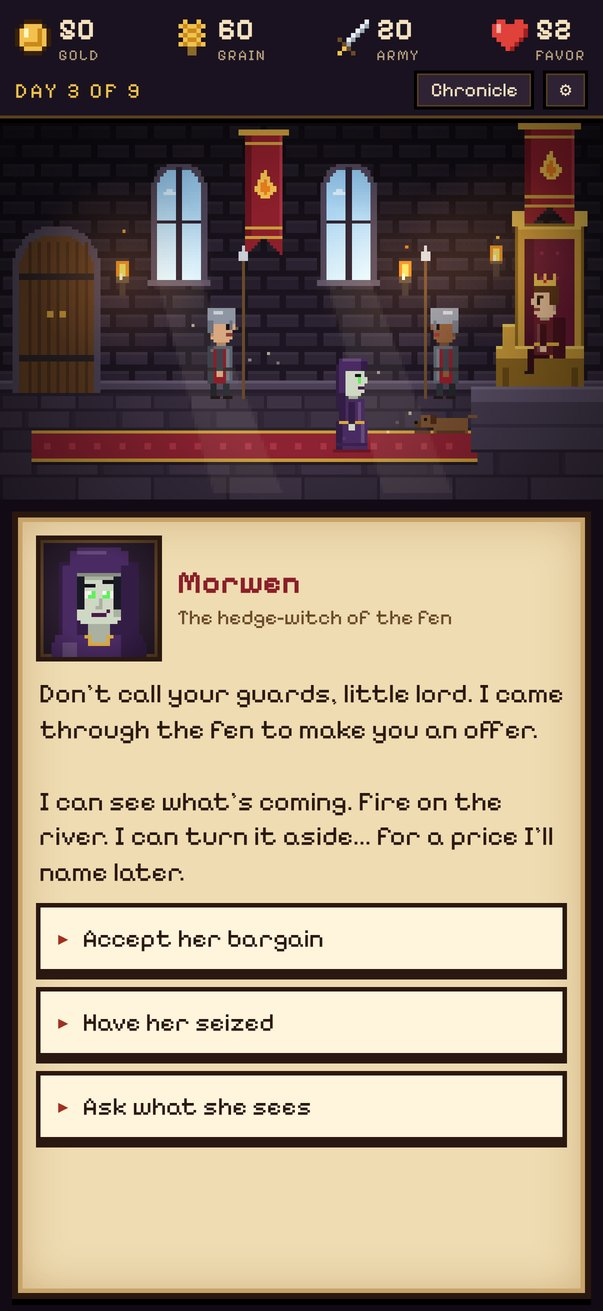
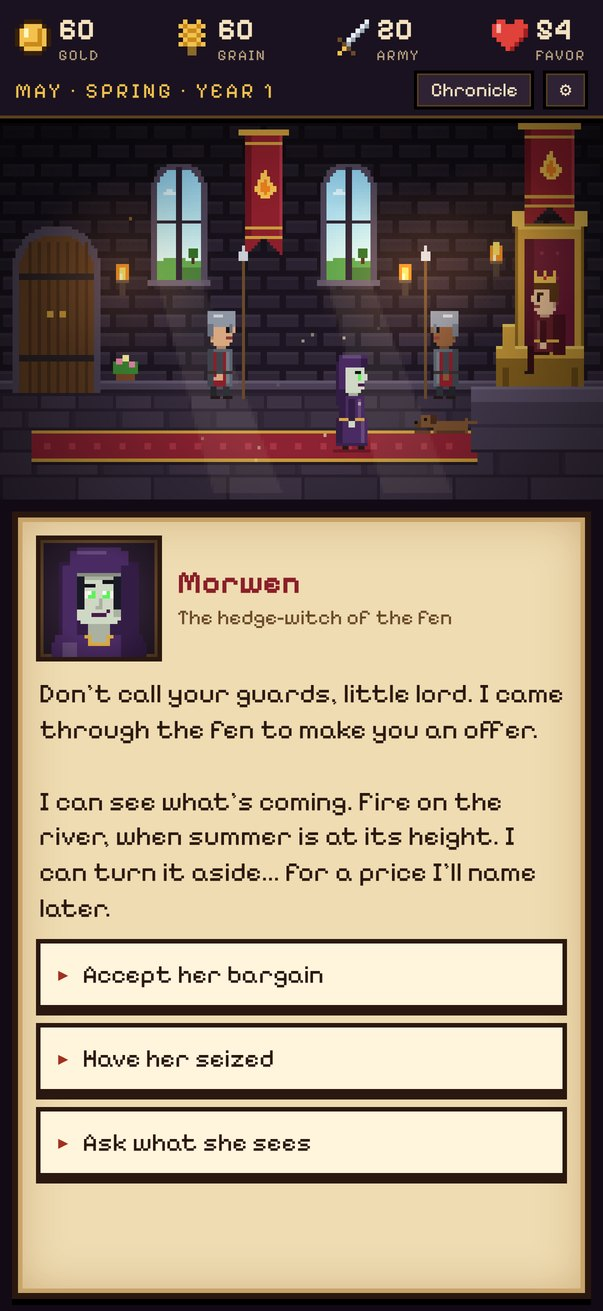
Emberfall pages: describe the year-long reign, new screenshots
Claude-Session: https://claude.ai/code/session_01SERTLs5Dns9P29i9CurPML

diff --git a/emberfall/index.html b/emberfall/index.html
@@ -1,19 +1,20 @@
 <!doctype html>
 <html lang="en"><head><meta charset="utf-8"><meta name="viewport" content="width=device-width,initial-scale=1">
-<title>Emberfall: My Lord</title><meta name="description" content="A pixel-art medieval story game. Nine days on the throne of Emberfall, fourteen voices at your door and thirteen endings.">
-<meta property="og:title" content="Emberfall: My Lord"><meta property="og:description" content="A pixel-art medieval story game. Nine days on the throne of Emberfall, fourteen voices at your door and thirteen endings."><meta property="og:image" content="https://wolfhopecom.github.io/emberfall/img/02-throne.jpg">
+<title>Emberfall: My Lord</title><meta name="description" content="A pixel-art medieval story game. A year on the throne of Emberfall, fourteen voices at your door and thirteen endings.">
+<meta property="og:title" content="Emberfall: My Lord"><meta property="og:description" content="A pixel-art medieval story game. A year on the throne of Emberfall, fourteen voices at your door and thirteen endings."><meta property="og:image" content="https://wolfhopecom.github.io/emberfall/img/02-throne.jpg">
 <link rel="icon" href="icon.png"><link rel="apple-touch-icon" href="icon.png"><link rel="stylesheet" href="style.css"></head>
 <body><main>
 <header><img src="icon.png" alt=""><a href="index.html">Emberfall: My Lord</a></header>
 <nav><a href="index.html">Home</a><a href="support.html">Support</a><a href="privacy.html">Privacy Policy</a><a href="terms.html">Terms of Service</a></nav>
 
 <div class="hero"><h1>EMBERFALL</h1><div class="sub">MY LORD</div></div>
-<p><b>Your father is dead, and the throne of Emberfall is yours.</b> Every day, petitioners walk the red carpet to your throne: a miller begging grain for a starving village, your wife with a marriage offer for your daughter, a hedge-witch from the fen with a bargain she won't name, and a smiling envoy from Baron Vex, who wants your city.</p>
-<p>Every answer costs something. Keep your gold, grain, army and the favor of your people alive for nine days, because on the ninth, Vex's banners appear on the river.</p>
-<div class="shots"><img src="img/01-title.jpg" alt="Title screen: Emberfall castle at dusk"><img src="img/02-throne.jpg" alt="A merchant petitions the throne"><img src="img/04-witch.jpg" alt="Morwen the hedge-witch offers a bargain"><img src="img/05-siege.jpg" alt="The ninth day: Emberfall under siege"><img src="img/06-ending.jpg" alt="An ending: Lord of the River"></div>
+<p><b>Your father is dead, and the throne of Emberfall is yours.</b> Month after month, petitioners walk the red carpet to your throne: a miller begging grain for a starving village, your wife with a marriage offer for your daughter, a hedge-witch from the fen with a bargain she won't name, and a smiling envoy from Baron Vex, who wants your city.</p>
+<p>Every answer costs something. Keep your gold, grain, army and the favor of your people alive through the seasons, and raise granaries, markets and walls with your master mason, because in high summer, Vex's banners appear on the river.</p>
+<div class="shots"><img src="img/01-title.jpg" alt="Title screen: Emberfall castle at dusk"><img src="img/02-throne.jpg" alt="A merchant petitions the throne"><img src="img/04-witch.jpg" alt="Morwen the hedge-witch offers a bargain"><img src="img/05-siege.jpg" alt="High summer: Emberfall under siege"><img src="img/06-ending.jpg" alt="An ending: Lord of the River"></div>
 <div class="card"><ul style="margin:0;padding-left:20px">
 <li>A hand-crafted story with <b>13 endings</b>: victory, exile, ruin, a crown, and stranger fates</li>
-<li>Choices that come back: alliances, betrayals, curses and secrets carry across days</li>
+<li>Choices that come back: alliances, betrayals, curses and secrets carry across the months</li>
+<li>A living calendar: spring rain, summer sun, autumn leaves and winter snow</li>
 <li><b>14 characters</b> with animated pixel-art portraits and voices of their own</li>
 <li>A living throne room with torchlight, drifting embers, guards and the castle hound</li>
 <li>An original soundtrack that shifts from lute by day to bells by night to war drums</li>

diff --git a/emberfall/support.html b/emberfall/support.html
@@ -15,6 +15,6 @@
 <details><summary>Do I need the internet?</summary><p>No. The whole game plays offline on your device.</p></details>
 <details><summary>Is my data collected?</summary><p>No. There are no accounts, ads or tracking. See our <a href="privacy.html">Privacy Policy</a>.</p></details>
 <div class="card"><h2 style="margin-top:0">Contact us</h2><p>Found a bug or have a question? We read every message.</p>
-<p><a class="btn" href="mailto:wolfhopeco@gmail.com?subject=Emberfall%20support&body=What%20happened%3F%20(Which%20device%2C%20and%20which%20day%20of%20your%20reign%3F)">Email wolfhopeco@gmail.com</a></p></div>
+<p><a class="btn" href="mailto:wolfhopeco@gmail.com?subject=Emberfall%20support&body=What%20happened%3F%20(Which%20device%2C%20and%20which%20month%20of%20your%20reign%3F)">Email wolfhopeco@gmail.com</a></p></div>
 <footer>© 2026 Wolfhope · Emberfall: My Lord</footer>
 </main></body></html>
